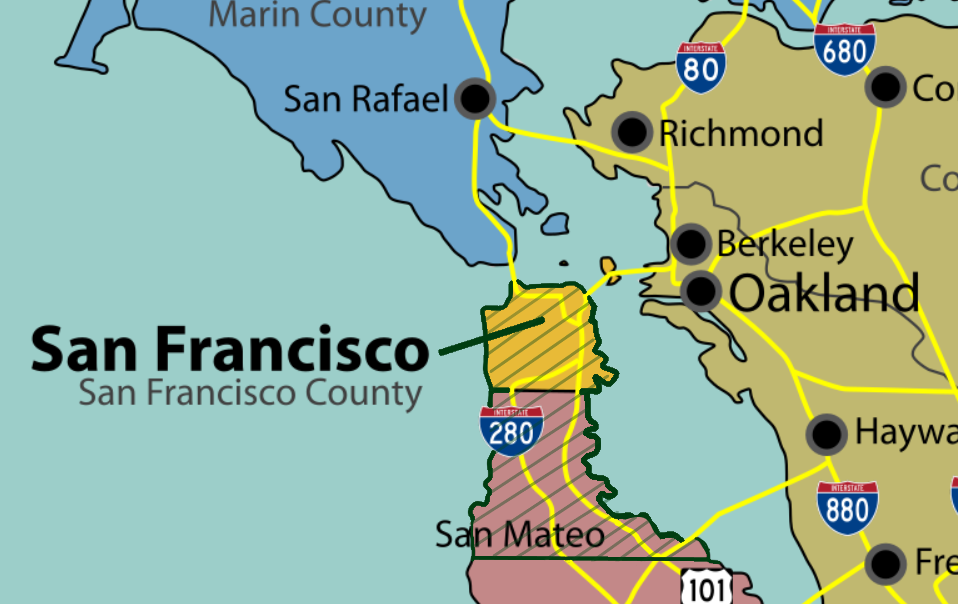
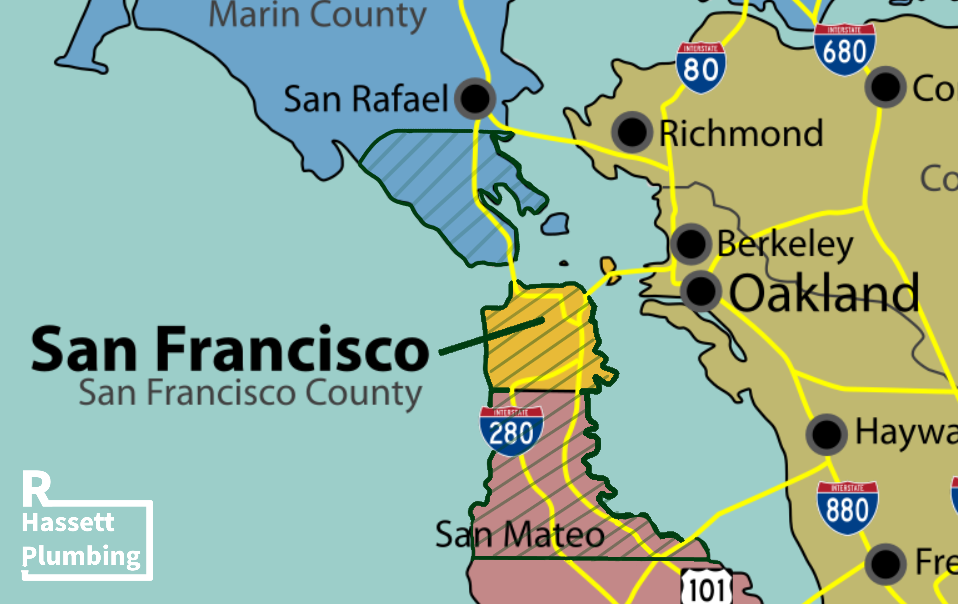
Centralized image, changed image, fixed some small design flaws.

Changed region(s): [[0.3633, 0.2086, 0.5752, 0.447], [0.0, 0.7748, 0.1816, 0.9834]]

diff --git a/templates/index.html b/templates/index.html
@@ -81,17 +81,12 @@
 
           <div class="service-pill">
             <b>Bathroom Remodel</b>
-
-            <!-- Fix/Replacement of any part -->
           </div>
 
           <div class="service-pill">
             <div class="text-area">
               <b>Kitchen Remodel</b>
             </div>
-            <!-- <img class="service-img" 
-                src="{{ url_for('static', filename='images/service_installation.png') }}" 
-                alt="Service photo"> -->
           </div>
 
           <div class="service-pill">
@@ -99,9 +94,6 @@
               <b>Gas Line Install</b>
             </div>
 
-            <!-- <img class="service-img" 
-                src="{{ url_for('static', filename='images/service_repair.png') }}" 
-                alt="Service photo"> -->
           </div>
 
           <div class="service-pill">
@@ -112,11 +104,12 @@
     </section>
 
     <div class="container">
-      <img class="central-img" style="
+      <img style="
         border-radius: 10px;
+        display: flex;                 /* allows side-by-side layout */
+        align-items: center;           /* vertically align */
         border-style:groove;
         border-width: 1px;
-
         margin:auto;
         border-color: black;"
                 src="{{ url_for('static', filename='images/rhassett_coverage.png') }}" 

diff --git a/static/style.css b/static/style.css
@@ -33,6 +33,7 @@ body{
   max-width: 1100px;
   margin: 0 auto;
   padding: 0 16px;
+  
 }
 
 /* Utility */
@@ -202,12 +203,6 @@ button:focus-visible{ outline: 3px solid var(--ring); outline-offset: 2px; borde
   flex-direction: column;
   text-align: left;
 } */
-
-.service-img {
-  width: 100px;     /* adjust size as you need */
-  height: auto;
-  border-radius: 25px;
-}
 
 
 /* Testimonials grid */

diff --git a/app.py b/app.py
@@ -24,7 +24,7 @@ currentMessage = None
 onHolliday = False
 if(not onHolliday):
     if ((currentHour<17 and currentHour>=9) and currentWeekday < 6):
-        currentMessage = "Open"
+        currentMessage = "We are open!"
     else:
         if(currentWeekday>=6):
             currentMessage = (f"We are closed until Monday at {OPENING_TIME}")
